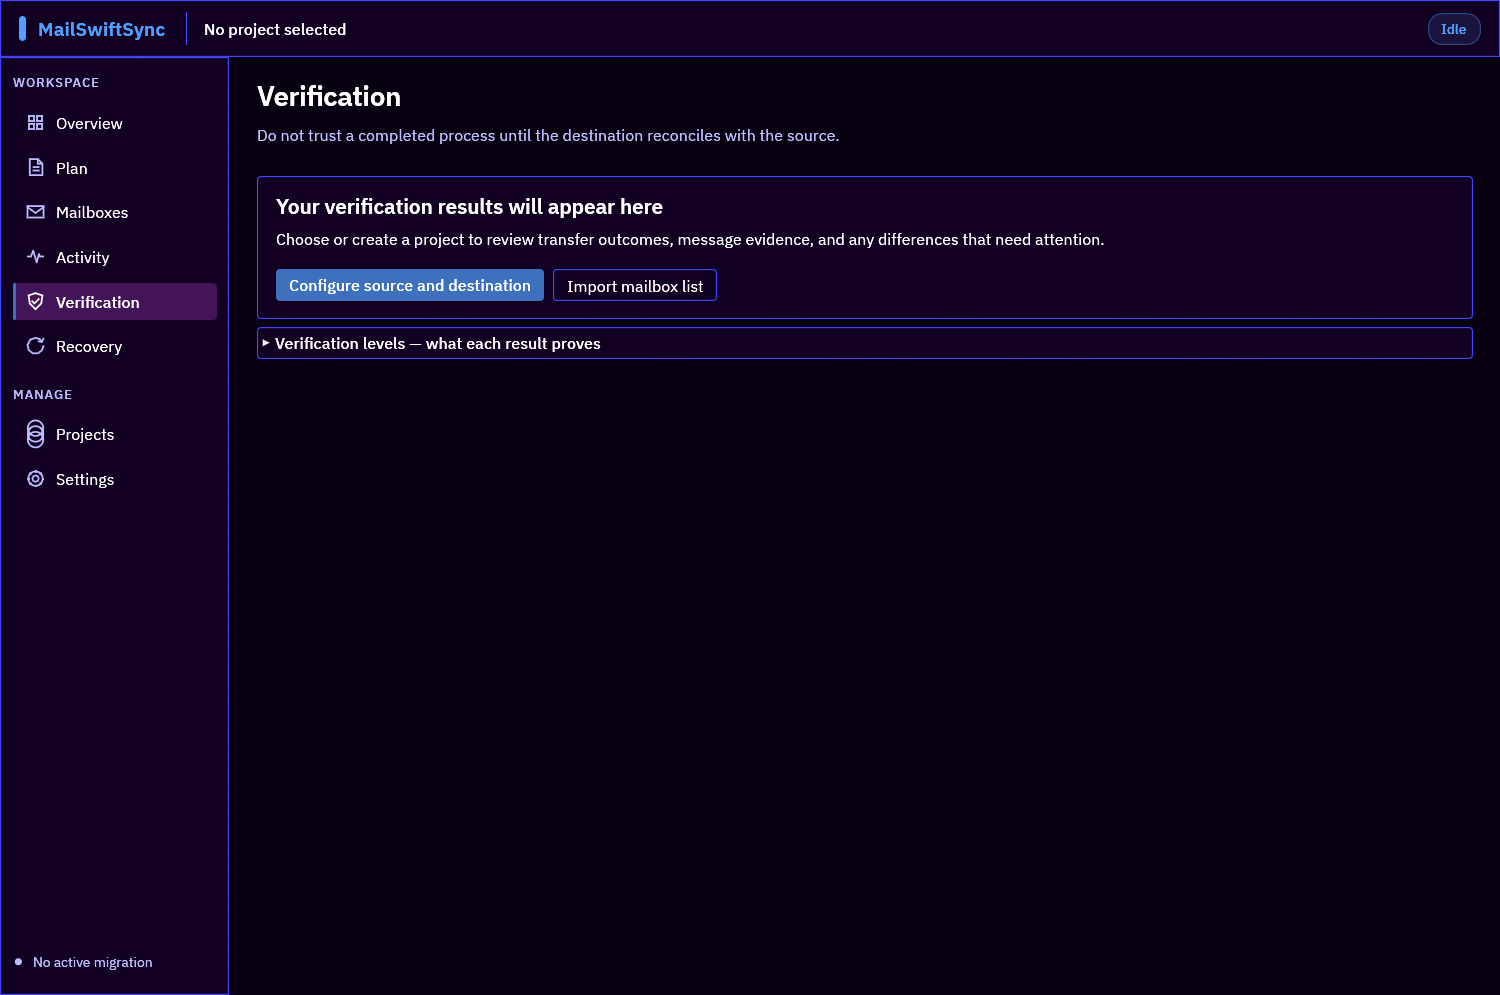
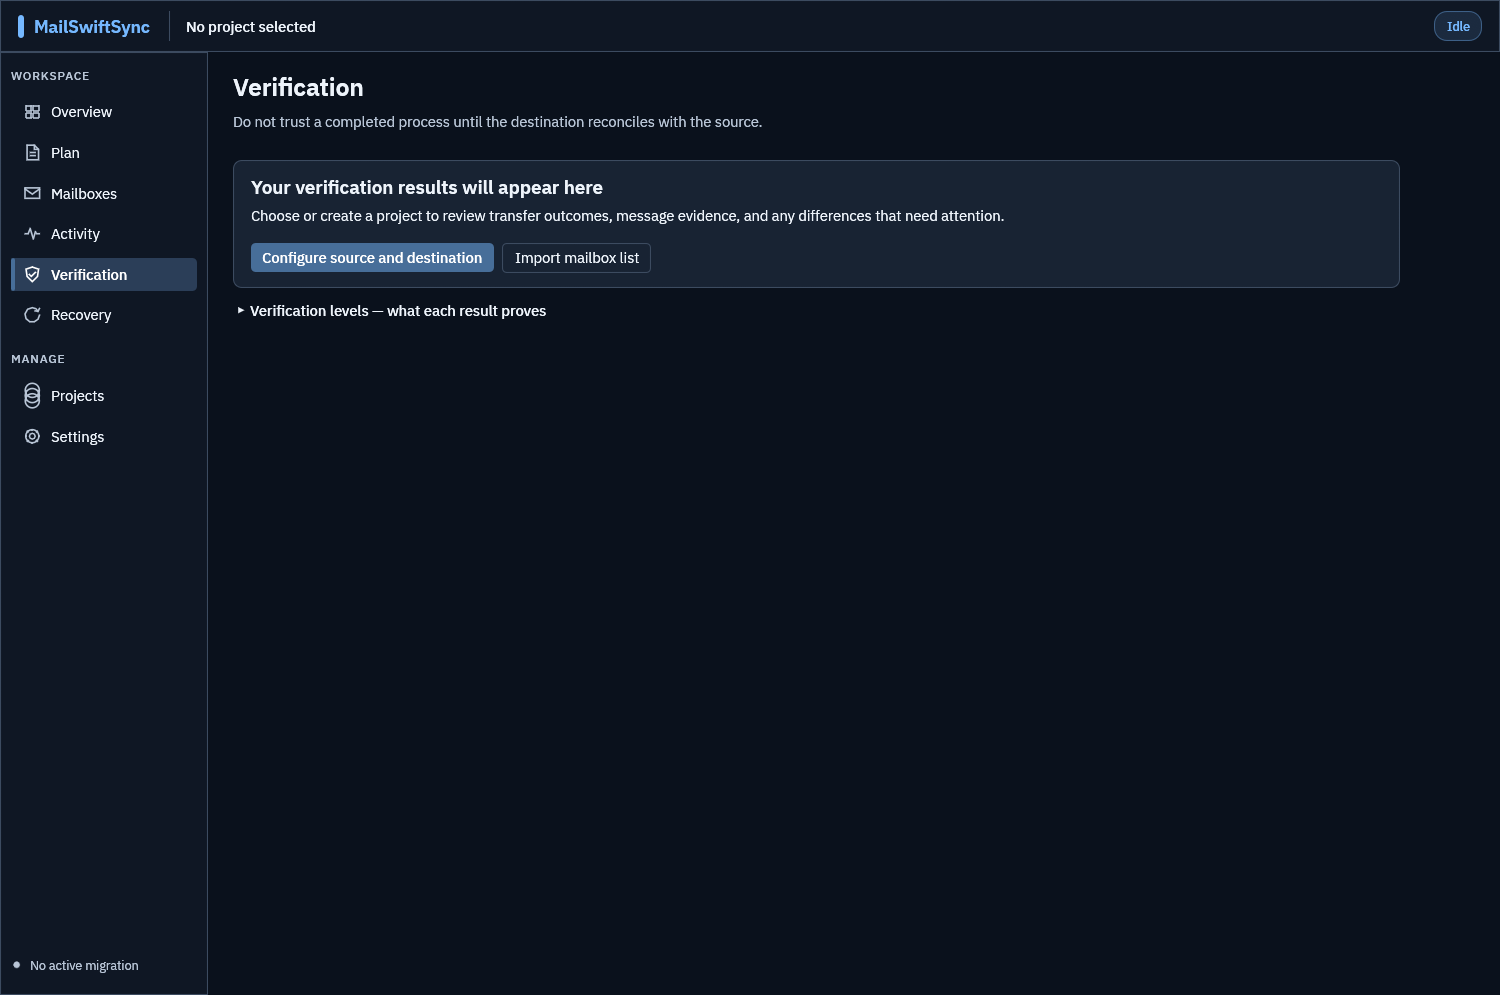
Polish the desktop UI and refresh previews in the Default dark theme
- Key/value summary grids opt out of the global striping, whose stripes
  ended mid-card.
- The password row reserves its toggle's measured width; the fixed 64 pt
  was 4 pt short, which widened the account columns and every card below.
- The Mailboxes workflow separates its steps, marks finished ones, and
  pluralizes the blocker line through new locale keys.
- capture-ui-previews.py takes --theme/--light, captures as user
  operator, and also writes the wiki's overview.png.

Changed region(s): [[0.0, 0.0, 1.0, 0.4985], [0.0, 0.9658, 0.1533, 1.0]]

diff --git a/src/ui/batch.rs b/src/ui/batch.rs
@@ -939,15 +939,25 @@ impl App {
             ui.horizontal_wrapped(|ui| {
                 for (index, (_, title_key, _)) in crate::ui::overview::LIFECYCLE.iter().enumerate()
                 {
-                    let label = format!("{} {}", index + 1, self.language.message(title_key));
-                    let active = index == workflow_index;
-                    ui.label(RichText::new(label).color(if active {
-                        colors.info
-                    } else if workflow_index != usize::MAX && index < workflow_index {
-                        colors.success
+                    if index > 0 {
+                        ui.label(RichText::new("›").color(colors.text_secondary));
+                    }
+                    let title = self.language.message(title_key);
+                    if workflow_index != usize::MAX && index < workflow_index {
+                        let size = egui::TextStyle::Body.resolve(ui.style()).size;
+                        ui.label(crate::ui::status_text(
+                            &format!("✓ {title}"),
+                            colors.success,
+                            size,
+                        ));
                     } else {
-                        colors.text_secondary
-                    }));
+                        let text = RichText::new(format!("{} {title}", index + 1));
+                        ui.label(if index == workflow_index {
+                            text.color(colors.info).family(crate::ui::fonts::medium())
+                        } else {
+                            text.color(colors.text_secondary)
+                        });
+                    }
                 }
             });
             // The workflow's recommended next step is the page's primary action.
@@ -958,14 +968,17 @@ impl App {
             }
             if summary.unresolved() > 0 {
                 ui.horizontal_wrapped(|ui| {
-                    ui.label(
-                        RichText::new(
-                            self.language
-                                .text("{} mailbox(es) block the next migration step.")
-                                .replace("{}", &summary.unresolved().to_string()),
-                        )
-                        .color(colors.warning),
-                    );
+                    let blockers = match summary.unresolved() {
+                        1 => self
+                            .language
+                            .message("ui.mailbox-blocks-next-step")
+                            .to_owned(),
+                        count => self
+                            .language
+                            .message("ui.mailboxes-block-next-step")
+                            .replace("{}", &count.to_string()),
+                    };
+                    ui.label(RichText::new(blockers).color(colors.warning));
                     if ui
                         .button(self.language.text("Open actionable blockers"))
                         .clicked()

diff --git a/scripts/capture-ui-previews.py b/scripts/capture-ui-previews.py
@@ -1,5 +1,5 @@
 #!/usr/bin/env python3
-"""Capture real Retro 80s desktop views using isolated, synthetic demo state.
+"""Capture real desktop views using isolated, synthetic demo state.
 
 Requires a debug build, an X11 display (XWayland works), xwininfo, xprop,
 and ImageMagick's import. Only this script's own application windows are
@@ -32,6 +32,8 @@ def main() -> None:
     parser.add_argument("--binary", type=Path, default=Path("target/debug/mailswiftsync"))
     parser.add_argument("--output", type=Path, default=Path("docs/wiki/assets"))
     parser.add_argument("--window", default="1440x1000", help="Preview size, e.g. 900x640")
+    parser.add_argument("--theme", default="Default", help="Theme name as stored in appearance.toml, e.g. HighContrast")
+    parser.add_argument("--light", action="store_true", help="Capture the light variant")
     args = parser.parse_args()
     for program in ("xwininfo", "xprop", "import"):
         if not shutil.which(program):
@@ -53,12 +55,19 @@ def main() -> None:
             for key in list(environment):
                 if key.startswith("MAILSWIFTSYNC_DEBUG_"):
                     environment.pop(key)
+            appearance = Path(temporary, "config", "mailswiftsync", "appearance.toml")
+            appearance.parent.mkdir(parents=True)
+            # dark_mode and ui_scale are required, or the file is ignored.
+            appearance.write_text(
+                f'theme = "{args.theme}"\ndark_mode = {str(not args.light).lower()}\nui_scale = 1.0\n'
+            )
             environment.update(
                 XDG_CONFIG_HOME=f"{temporary}/config",
                 XDG_DATA_HOME=f"{temporary}/data",
                 MAILSWIFTSYNC_STATE_PATH=f"{temporary}/state.db",
                 MAILSWIFTSYNC_DEBUG_DEMO="1",
-                MAILSWIFTSYNC_DEBUG_THEME="retro80s",
+                # Keep the wave approver placeholder free of the local username.
+                USER="operator",
                 MAILSWIFTSYNC_DEBUG_VIEW=view,
                 MAILSWIFTSYNC_DEBUG_WINDOW=args.window,
             )
@@ -93,6 +102,8 @@ def main() -> None:
                 except subprocess.TimeoutExpired:
                     process.kill()
                     process.wait(timeout=5)
+    # The wiki home page shows the same overview under its older name.
+    shutil.copyfile(args.output / "migration-overview.png", args.output / "overview.png")
 
 
 if __name__ == "__main__":

diff --git a/src/ui/account.rs b/src/ui/account.rs
@@ -41,15 +41,26 @@ fn secret_row(
             }
             password_reveal_allowed(editable, requested)
         });
+        // Reserve the toggle's measured width, so a longer translation never
+        // pushes the row (and every card below it) past the column edge.
+        let toggle = language.text(if visible { "Hide" } else { "Show" });
+        let toggle_width = egui::WidgetText::from(toggle)
+            .into_galley(
+                ui,
+                Some(egui::TextWrapMode::Extend),
+                f32::INFINITY,
+                egui::TextStyle::Button,
+            )
+            .size()
+            .x
+            + 2.0 * ui.spacing().button_padding.x
+            + ui.spacing().item_spacing.x;
         let field = ui.add(
             egui::TextEdit::singleline(password.as_mut_string())
                 .password(!visible)
-                .desired_width((ui.available_width() - 64.0).max(80.0)),
+                .desired_width((ui.available_width() - toggle_width).max(80.0)),
         );
-        if ui
-            .button(language.text(if visible { "Hide" } else { "Show" }))
-            .clicked()
-        {
+        if ui.button(toggle).clicked() {
             ui.ctx()
                 .data_mut(|data| data.insert_temp(visibility_id, !visible));
         }

diff --git a/src/ui/command_center.rs b/src/ui/command_center.rs
@@ -171,6 +171,7 @@ impl App {
                     // A grid keeps every count on its label's baseline.
                     egui::Grid::new("command_center_buckets")
                         .num_columns(2)
+                        .striped(false)
                         .spacing([24.0, 8.0])
                         .show(ui, |ui| {
                             for (glyph, key, count, color, filter) in buckets {
@@ -244,6 +245,7 @@ impl App {
                 let column_cap = (right.available_width() * 0.6).max(120.0);
                 egui::Grid::new("command_center_figures")
                     .num_columns(2)
+                    .striped(false)
                     .spacing([24.0, 2.0])
                     .max_col_width(column_cap)
                     .show(right, |ui| {
@@ -269,6 +271,7 @@ impl App {
                     crate::ui::section_label(right, self.language.message("ui.provider-health"));
                     egui::Grid::new("command_center_providers")
                         .num_columns(2)
+                        .striped(false)
                         .spacing([24.0, 6.0])
                         .max_col_width(column_cap)
                         .show(right, |ui| {

diff --git a/src/ui/overview.rs b/src/ui/overview.rs
@@ -401,6 +401,7 @@ impl App {
             ui.add_space(8.0);
             egui::Grid::new("overview_operator_cockpit")
                 .num_columns(2)
+                .striped(false)
                 .spacing([18.0, 7.0])
                 .show(ui, |ui| {
                     ui.label(
@@ -728,6 +729,7 @@ impl App {
             ui.add_space(6.0);
             egui::Grid::new("overview_readiness_summary")
                 .num_columns(2)
+                .striped(false)
                 .spacing([24.0, 5.0])
                 .show(ui, |ui| {
                     for finding in findings.iter().filter(|finding| {

diff --git a/src/ui/theme.rs b/src/ui/theme.rs
@@ -156,6 +156,8 @@ impl ThemeColors {
         // Modern packs show disclosure sections as plain rows with a chevron;
         // retro packs keep the framed bar of their era.
         visuals.collapsing_header_frame = !self.modern;
+        // Data tables read better striped; short key/value summaries opt out
+        // with `striped(false)`, since a stripe there ends mid-card.
         visuals.striped = true;
         visuals
     }

diff --git a/src/ui/app.rs b/src/ui/app.rs
@@ -604,6 +604,7 @@ crate::ui::name_modal(ui, &modal_heading);
             ui.heading(self.language.message("ui.migration-policy"));
             egui::Grid::new("migration_policy_summary")
                 .num_columns(2)
+                .striped(false)
                 .spacing([16.0, 5.0])
                 .show(ui, |ui| {
                     ui.label(self.language.message("ui.folder-handling"));

diff --git a/src/ui/qualification.rs b/src/ui/qualification.rs
@@ -227,6 +227,7 @@ impl App {
             );
             egui::Grid::new("migration_simulation_facts")
                 .num_columns(2)
+                .striped(false)
                 .spacing([18.0, 7.0])
                 .show(ui, |ui| {
                     simulation_row(ui, self.language.message("ui.scope-f0350657"), &scope);

diff --git a/src/ui/waves.rs b/src/ui/waves.rs
@@ -322,6 +322,7 @@ impl App {
             );
             egui::Grid::new("wave_create_form")
                 .num_columns(2)
+                .striped(false)
                 .spacing([12.0, 6.0])
                 .show(ui, |ui| {
                     for (label_key, hint_key, value) in [

diff --git a/scripts/verify-ui-localization.py b/scripts/verify-ui-localization.py
@@ -24,6 +24,7 @@ RAW_LITERAL_ALLOWLIST = {
     "MailSwiftSync",
     "doveadm",
     "→",
+    "›",
     "✓",
     "⏺",
     "!",

diff --git a/docs/wiki/Home.md b/docs/wiki/Home.md
@@ -2,7 +2,7 @@
 
 MailSwiftSync is a local mailbox migration control plane. It uses Dovecot's native `doveadm`/dsync workflow when the destination is Dovecot, and `imapsync` for arbitrary IMAP-to-IMAP work. It helps you plan a migration, test it safely, keep a durable project record, and verify the result.
 
-![MailSwiftSync Overview with a loaded batch queue — Retro 80s Neon theme](assets/overview.png)
+![MailSwiftSync Overview with a loaded batch queue — Default dark theme](assets/overview.png)
 
 *Overview page of the current release with placeholder `.example` data: queue status, the recommended next step, and progress through the migration workflow and project lifecycle.*
 
@@ -16,7 +16,7 @@ MailSwiftSync is a local mailbox migration control plane. It uses Dovecot's nati
 6. Click **Run preflight** against a test destination mailbox. The engine runs without changing the destination.
 7. Confirm the mailbox is **Ready** and the preflight plan still matches the current fields. Only then clear **Dry run / preflight** and click **Start live migration**, which asks for confirmation. Changing endpoints, users, engine, TLS, ports, or controlled options requires another preflight.
 
-![Migration plan page — Retro 80s Neon theme](assets/migration-plan.png)
+![Migration plan page — Default dark theme](assets/migration-plan.png)
 
 ## Choose the right engine
 

diff --git a/README.md b/README.md
@@ -8,9 +8,9 @@
 [![License: MIT](https://img.shields.io/badge/license-MIT-blue.svg)](LICENSE)
 [![Rust](https://img.shields.io/badge/built%20with-Rust-orange.svg)](https://www.rust-lang.org/)
 
-![Migration plan — Retro 80s Neon theme](docs/wiki/assets/migration-plan.png)
+![Migration plan — Default dark theme](docs/wiki/assets/migration-plan.png)
 
-> Screenshots show the running desktop application in the Retro 80s Neon theme, using synthetic demo data and an isolated workspace.
+> Screenshots show the running desktop application in the Default dark theme, using synthetic demo data and an isolated workspace.
 
 <details>
 <summary>Overview and verification workspace</summary>
@@ -560,7 +560,7 @@ restoring an earlier verified backup returns the ledger to normal operation.
 It does not cover the transfer engine itself running out of destination
 storage.
 
-![Mailboxes workspace — Retro 80s Neon theme](docs/wiki/assets/batch-queue.png)
+![Mailboxes workspace — Default dark theme](docs/wiki/assets/batch-queue.png)
 
 The on-screen **Activity** log is intentionally capped at 10,000 lines for desktop stability; the structured durable event ledger remains the longer-lived audit record. Raw engine transcripts stay process-local and are not written to SQLite.
 
